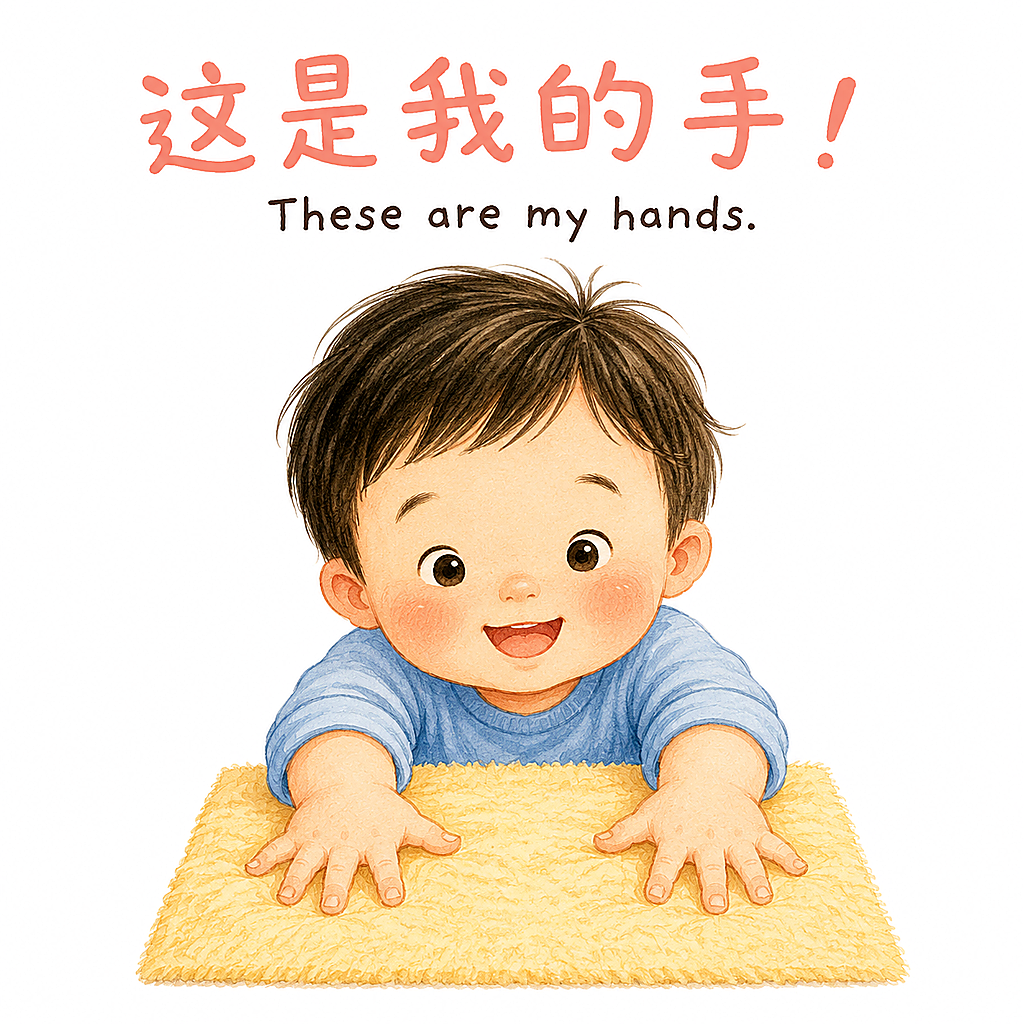
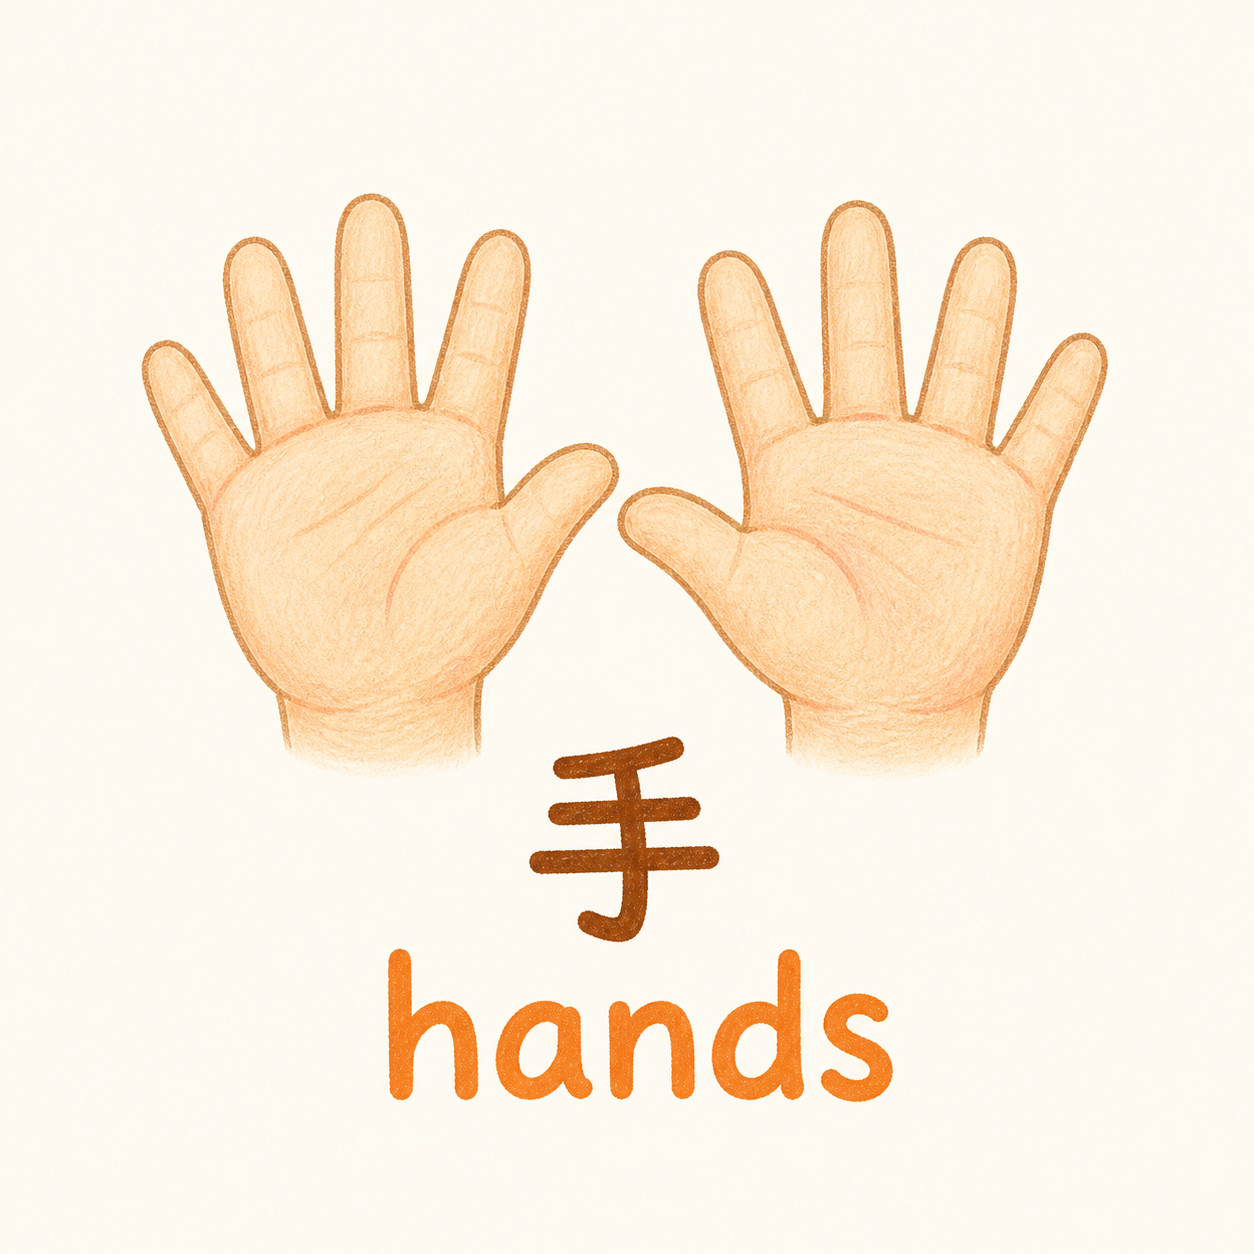
修改部位预置页

diff --git a/server/index.js b/server/index.js
@@ -270,6 +270,16 @@ const BODY_BOOK_PROMPT_PROFILES = {
     icons: "small daily-routine objects and gentle action marks"
   }
 };
+const BODY_BOOK_PRESET_PAGE_ART_DIRECTIONS = {
+  head: "a hand-drawn close-up of one child's head only, cropped above the shoulders; do not show a whole child or any body below the neck",
+  eyes: "a hand-drawn close-up of only a child's pair of eyes and the smallest surrounding skin area; do not show a full face or head",
+  ears: "a hand-drawn close-up of one child's ear only, with just a small neutral area of surrounding skin; do not show a head, face, hair, hand, or whole child",
+  nose: "a hand-drawn close-up of only a child's nose and the smallest surrounding skin area; do not show a full face or head",
+  mouth: "a hand-drawn close-up of only a child's mouth and the smallest surrounding skin area; do not show a full face or head",
+  hands: "a hand-drawn close-up of two small child hands only, without arms, face, head, or body",
+  feet: "a hand-drawn close-up of two small child feet only, without legs, face, head, or body",
+  tummy: "a hand-drawn close-up of only a child's round tummy, cropped tightly so that no face, head, limbs, or whole child appears"
+};
 const DEFAULT_DRAW_CARD_WEIGHT = 100;
 const SUBJECT_PERSON = "person";
 const SUBJECT_PET = "pet";
@@ -10850,7 +10860,11 @@ function getBuiltInPresetBookPageResult(definition, theme) {
 
 function buildBuiltInPresetBookPagePrompt(definition, theme) {
   if (String(theme?.id || "") === "color") return buildColorObjectPagePrompt(definition);
-  return `Built-in static preset page for ${theme?.name || "认知书"}: ${definition?.chinese || ""} / ${definition?.english || ""}.`;
+  const conceptKey = String(definition?.conceptKey || definition?.key || "").replace(/-objects$/i, "").toLowerCase();
+  const artDirection = BODY_BOOK_PRESET_PAGE_ART_DIRECTIONS[conceptKey]
+    || "a hand-drawn close-up of only the requested body part; do not show a whole child";
+  const englishLabel = String(definition?.english || "").toLowerCase();
+  return `Create one square 1:1 static preschool body-part recognition page. Subject: ${artDirection}. Use a warm, gentle hand-drawn colored-pencil and crayon illustration with subtle paper texture, clean outlines, soft warm skin tones, and a simple white or warm-cream background. Print layout requirement: the background must extend continuously to all four edges as a full-bleed image. Keep the entire illustrated body part and both text labels inside the central safe area, with at least 10% of the canvas width as empty background on every side; nothing important may touch or approach an outer edge. The body part must be large, centered, immediately recognizable, and the only illustrated subject. Render exactly two text labels and no other text: the Chinese label "${definition?.chinese || ""}" and the English label "${englishLabel}". Use large, clear, rounded hand-drawn type, with the Chinese label above the English label. Do not include a sentence, page number, arrow, icon, prop, sound symbol, border, watermark, decorative lettering, or additional labels. Do not show a full child, portrait, full head, face, torso, limbs, clothing, or any unrelated body part beyond the minimum skin needed for this close-up.`;
 }
 
 // Editable project pages deliberately exclude paired preset artwork. The
